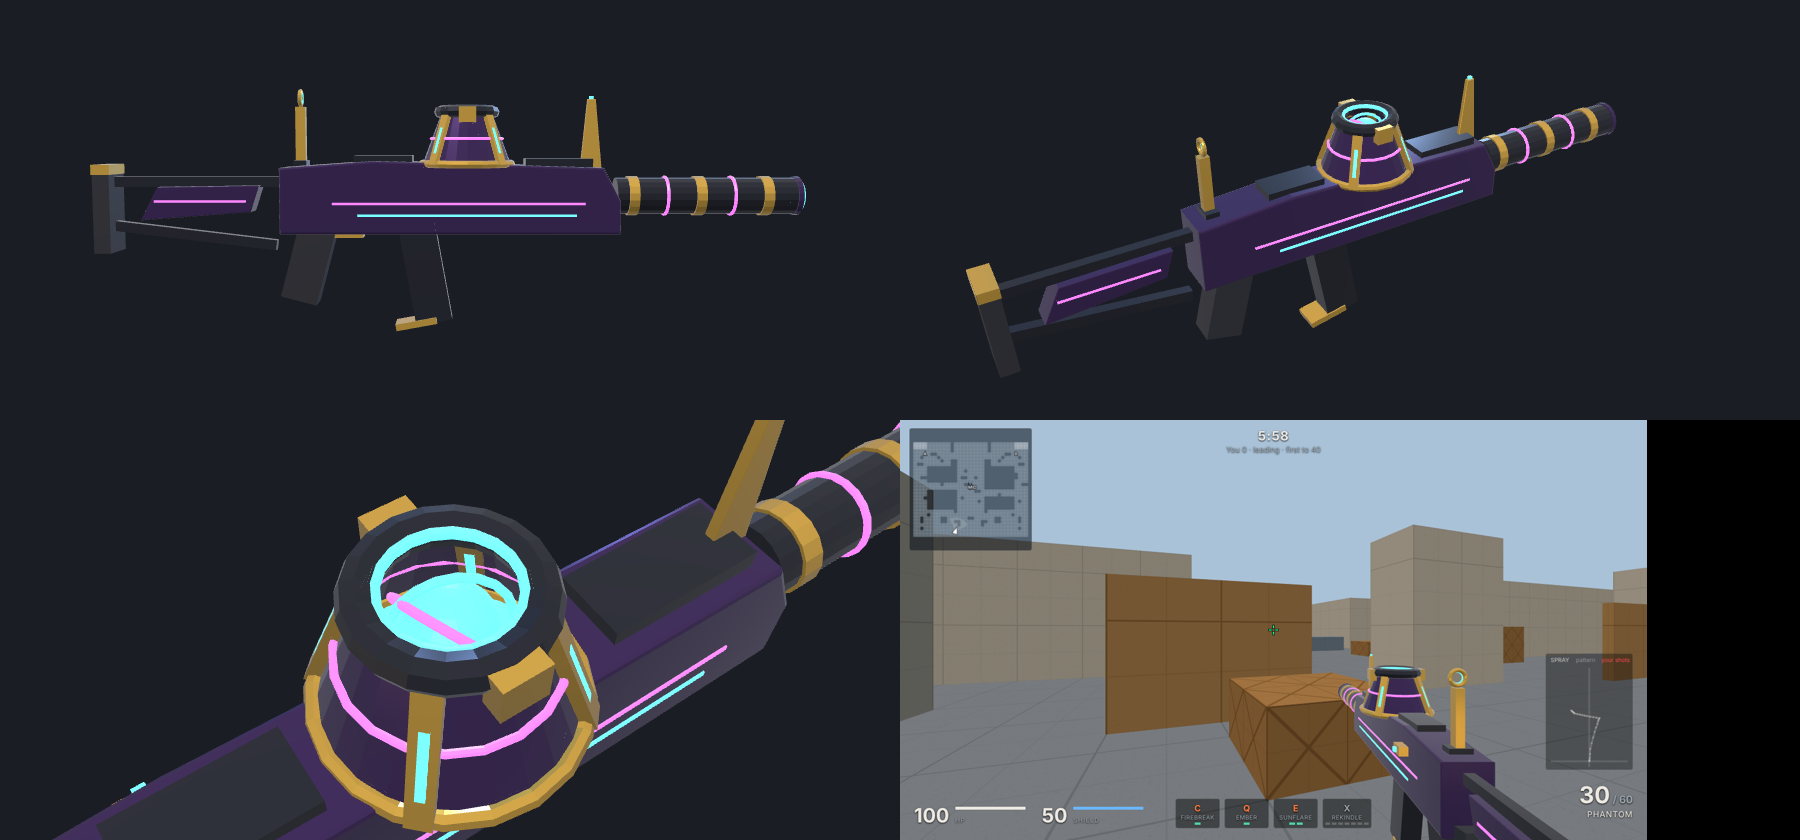
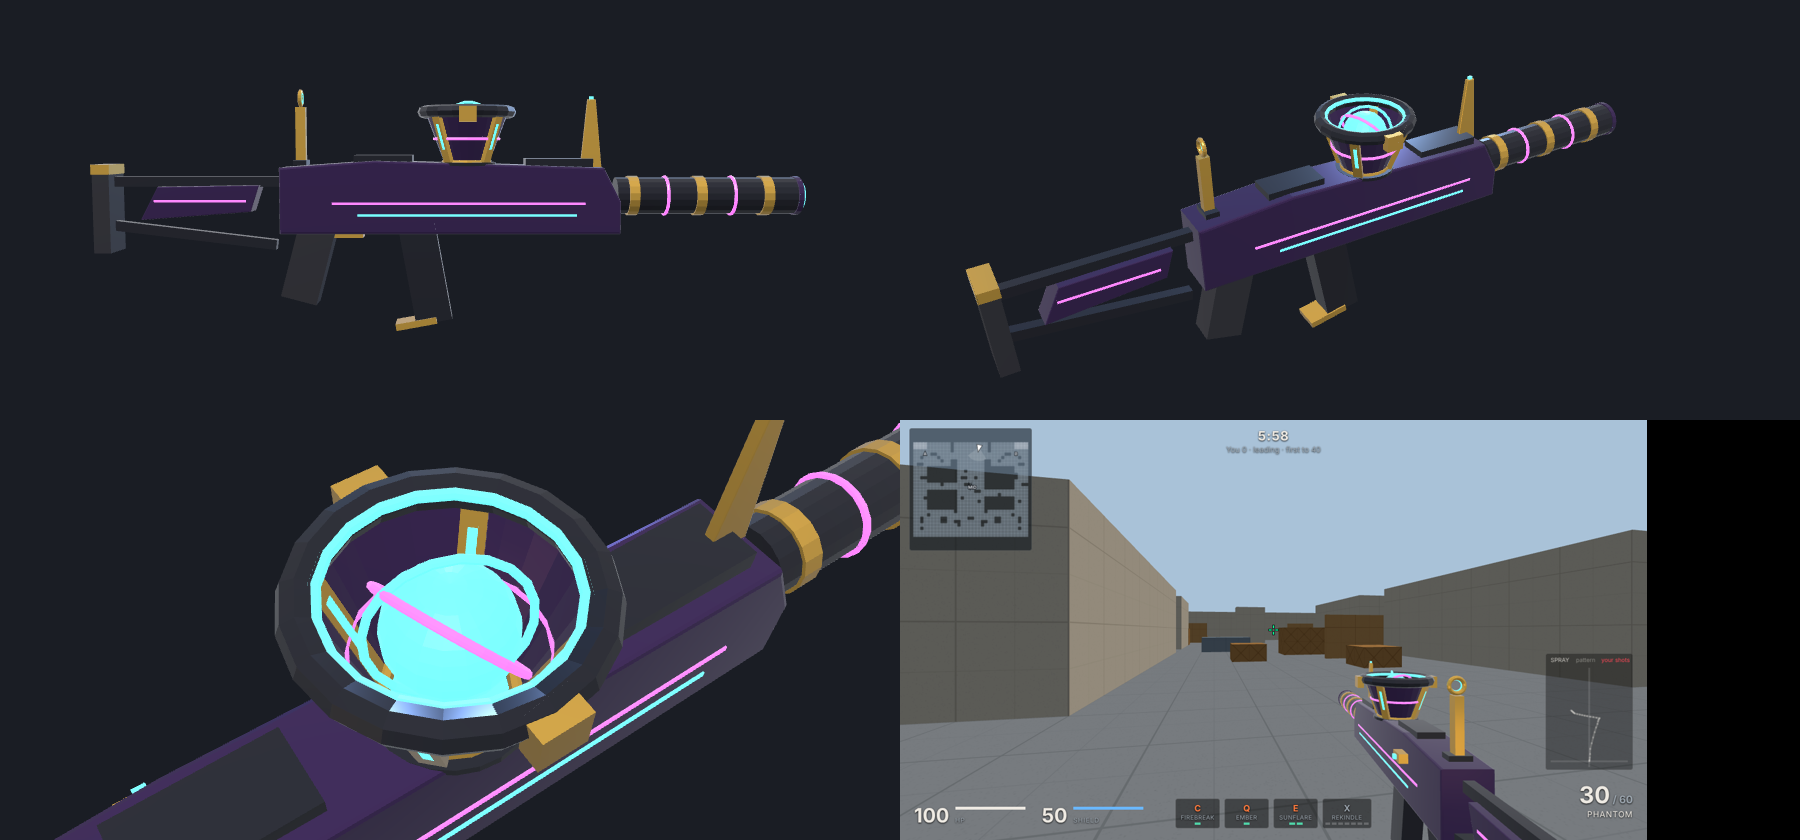
Orbital: flip the spire cone, seat it flush on the gun, orb top just over the rim
Claude-Session: https://claude.ai/code/session_012SZNVztSmqGKqjP711jP12

diff --git a/js/models.js b/js/models.js
@@ -213,29 +213,30 @@ function wrap(k, n, y0, z0, y1, z1, w, d, slot, tilt = 0) {
   }
 }
 
-// Orbital's reactor spire: a hollow cone rising from the top of the gun at z (base y0) to a reactor ring,
-// open at the top so you see down into it, lit from the floor, with gold fins down its slope. The orb (part
-// `orb`) sits in the mouth: the inspect floats it out and the reload pops it and seats a fresh one.
-// `s` scales the whole spire. Returns the height of the top of the ring.
+// Orbital's reactor spire: a hollow cone standing on its point, seated flush on the top of the gun at z (whose
+// surface is at y0) and flaring out to a wide reactor ring, open at the top, lit from the floor, with gold fins up
+// its slope. The orb (part `orb`) sits in the mouth with its top just showing over the rim: the inspect floats it
+// out and the reload pops it and seats a fresh one. `s` scales the whole spire. Returns the height of the top of the ring.
 function orbSpire(k, z, y0, s = 1) {
-  const h = 0.064 * s, rb = 0.054 * s, rt = 0.03 * s, top = y0 + h, slope = Math.atan((rb - rt) / h);
+  const h = 0.064 * s, rb = 0.026 * s, rt = 0.05 * s, top = y0 + h, slope = Math.atan((rb - rt) / h);
   k.cyl(rt, h, 'tubeBody', 0, y0 + h / 2, z, 24, 0, 0, 0, rb, true);
   k.cyl(rb * 0.9, 0.003, 'glow', 0, y0 + 0.003, z, 24, 0);
-  k.tor(rb, 0.0045 * s, 'metal', 0, y0 + 0.002, z, PI / 2);
+  k.cyl(rb + 0.009 * s, 0.004, 'trim', 0, y0 + 0.002, z, 24, 0); // a flat seat, flush on the top of the gun
+  k.tor(rb + 0.001 * s, 0.0035 * s, 'metal', 0, y0 + 0.004, z, PI / 2);
   k.tor((rb + rt) / 2 + 0.0012, 0.0018 * s, 'accent', 0, y0 + h / 2, z, PI / 2, 0, 0);
   for (let i = 0; i < 4; i++) {
     const a = PI / 4 + (i * PI) / 2, r = (rb + rt) / 2 + 0.0025 * s;
     k.box(0.006 * s, h * 1.04, 0.011 * s, 'metal', Math.cos(a) * r, y0 + h / 2, Math.sin(a) * r + z, 0, -a, slope);
-    k.box(0.0065 * s, h * 0.5, 0.004 * s, 'glow', Math.cos(a) * (r + 0.001), y0 + h * 0.45, Math.sin(a) * (r + 0.001) + z, 0, -a, slope);
+    k.box(0.0065 * s, h * 0.5, 0.004 * s, 'glow', Math.cos(a) * (r + 0.001), y0 + h * 0.55, Math.sin(a) * (r + 0.001) + z, 0, -a, slope);
   }
   k.tor(rt + 0.002 * s, 0.0075 * s, 'trim', 0, top, z, PI / 2);
   k.tor(rt - 0.004 * s, 0.0026 * s, 'glow', 0, top + 0.003 * s, z, PI / 2);
   for (const x of [-1, 1]) k.box(0.01 * s, 0.018 * s, 0.02 * s, 'metal', x * (rt + 0.009 * s), top - 0.004 * s, z);
-  const oy = top - 0.02 * s;
+  const or = 0.026 * s, oy = top + 0.007 * s - or; // the orb's top sits just above the rim
   k.part('orb', [0, oy, z]);
-  k.ball(0.019 * s, 'glow', 0, oy, z);
-  k.tor(0.024 * s, 0.0018 * s, 'accent', 0, oy, z, 0.6, 0.3);
-  k.tor(0.024 * s, 0.0018 * s, 'glow', 0, oy, z, -0.5, 1.2);
+  k.ball(or, 'glow', 0, oy, z);
+  k.tor(or + 0.006 * s, 0.0018 * s, 'accent', 0, oy, z, 0.6, 0.3);
+  k.tor(or + 0.006 * s, 0.0018 * s, 'glow', 0, oy, z, -0.5, 1.2);
   k.part(null);
   return top + 0.0075 * s;
 }
@@ -774,7 +775,7 @@ const DESIGNS = {
     k.box(0.052, 0.003, 0.06, 'glow', 0, 0.004, 0.03);
     k.box(0.03, 0.01, 0.07, 'trim', 0, 0.058, 0.035);
     k.box(0.03, 0.01, 0.06, 'trim', 0, 0.057, -0.17);
-    const top = orbSpire(k, -0.08, 0.054, 0.82);
+    const top = orbSpire(k, -0.08, 0.0525, 0.82);
     // Shroud: lit face ring, gold vents down each side.
     k.cyl(0.021, 0.07, 'trim', 0, 0.022, -0.255, 16);
     k.cyl(0.023, 0.01, 'body', 0, 0.022, -0.235, 16);
@@ -807,7 +808,7 @@ const DESIGNS = {
     k.box(0.058, 0.003, 0.26, 'glow', 0, -0.004, -0.17);
     k.box(0.036, 0.01, 0.07, 'trim', 0, 0.062, -0.07);
     k.box(0.036, 0.01, 0.08, 'trim', 0, 0.058, -0.28);
-    const top = orbSpire(k, -0.17, 0.055);
+    const top = orbSpire(k, -0.17, 0.0545);
     // Suppressor: gold bands, neon rings between them, lit face.
     k.cyl(0.022, 0.22, 'trim', 0, 0.018, -0.46, 18);
     for (const z of [-0.37, -0.45, -0.53]) k.cyl(0.024, 0.012, 'metal', 0, 0.018, z, 18);
